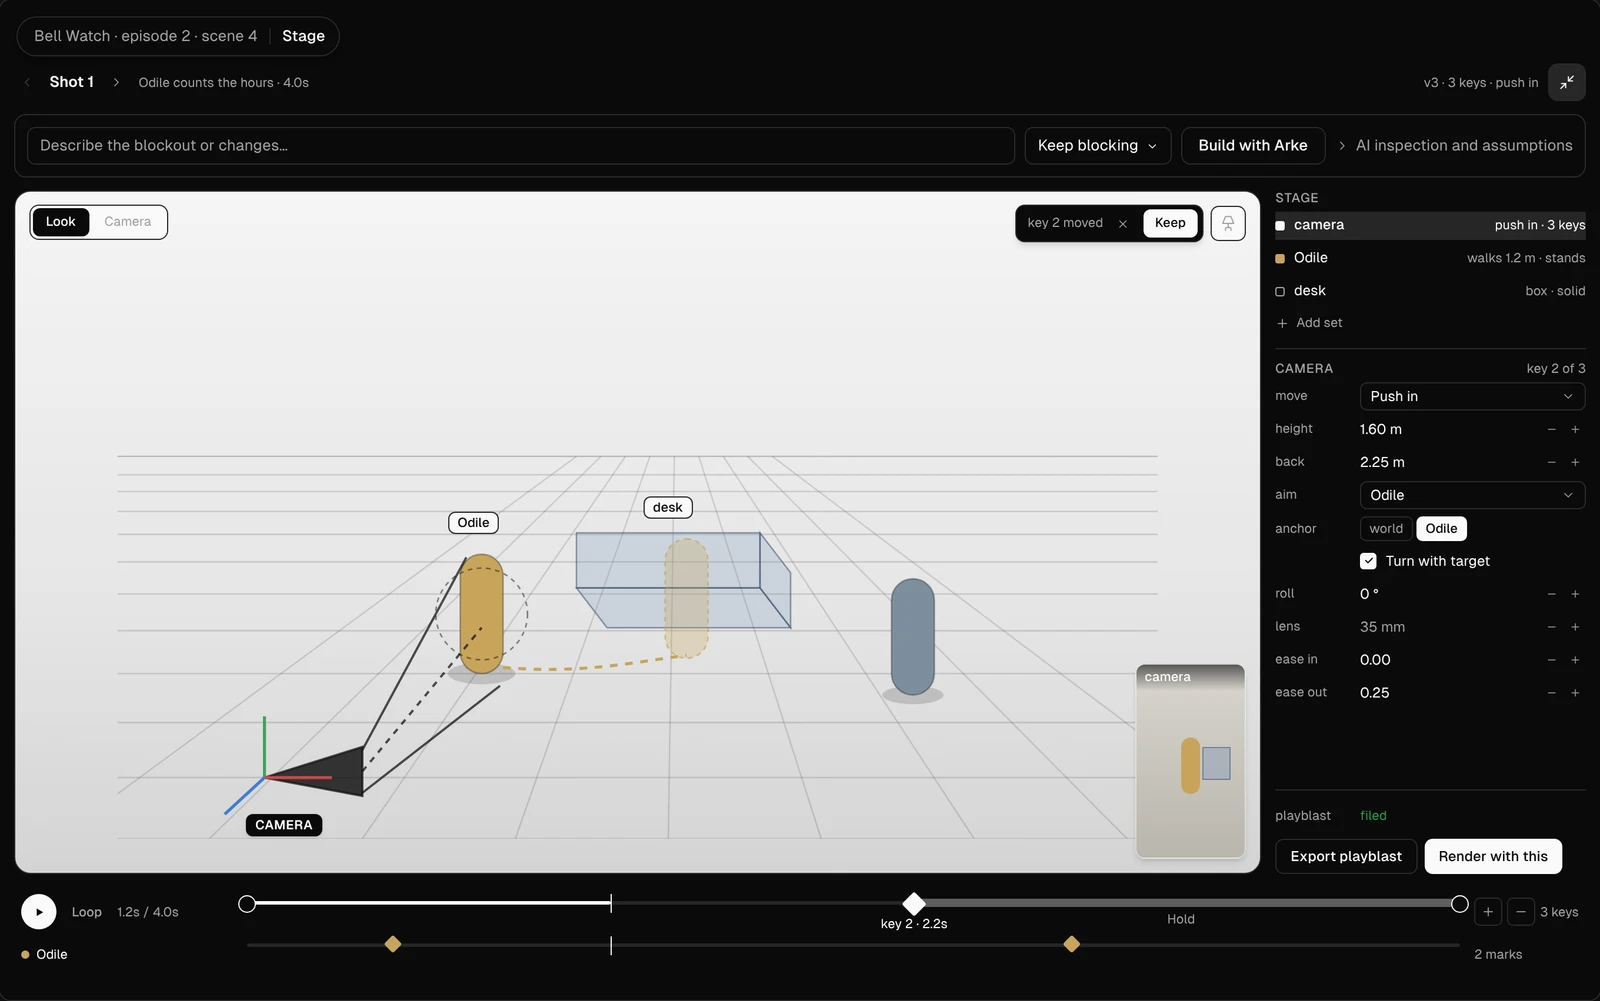
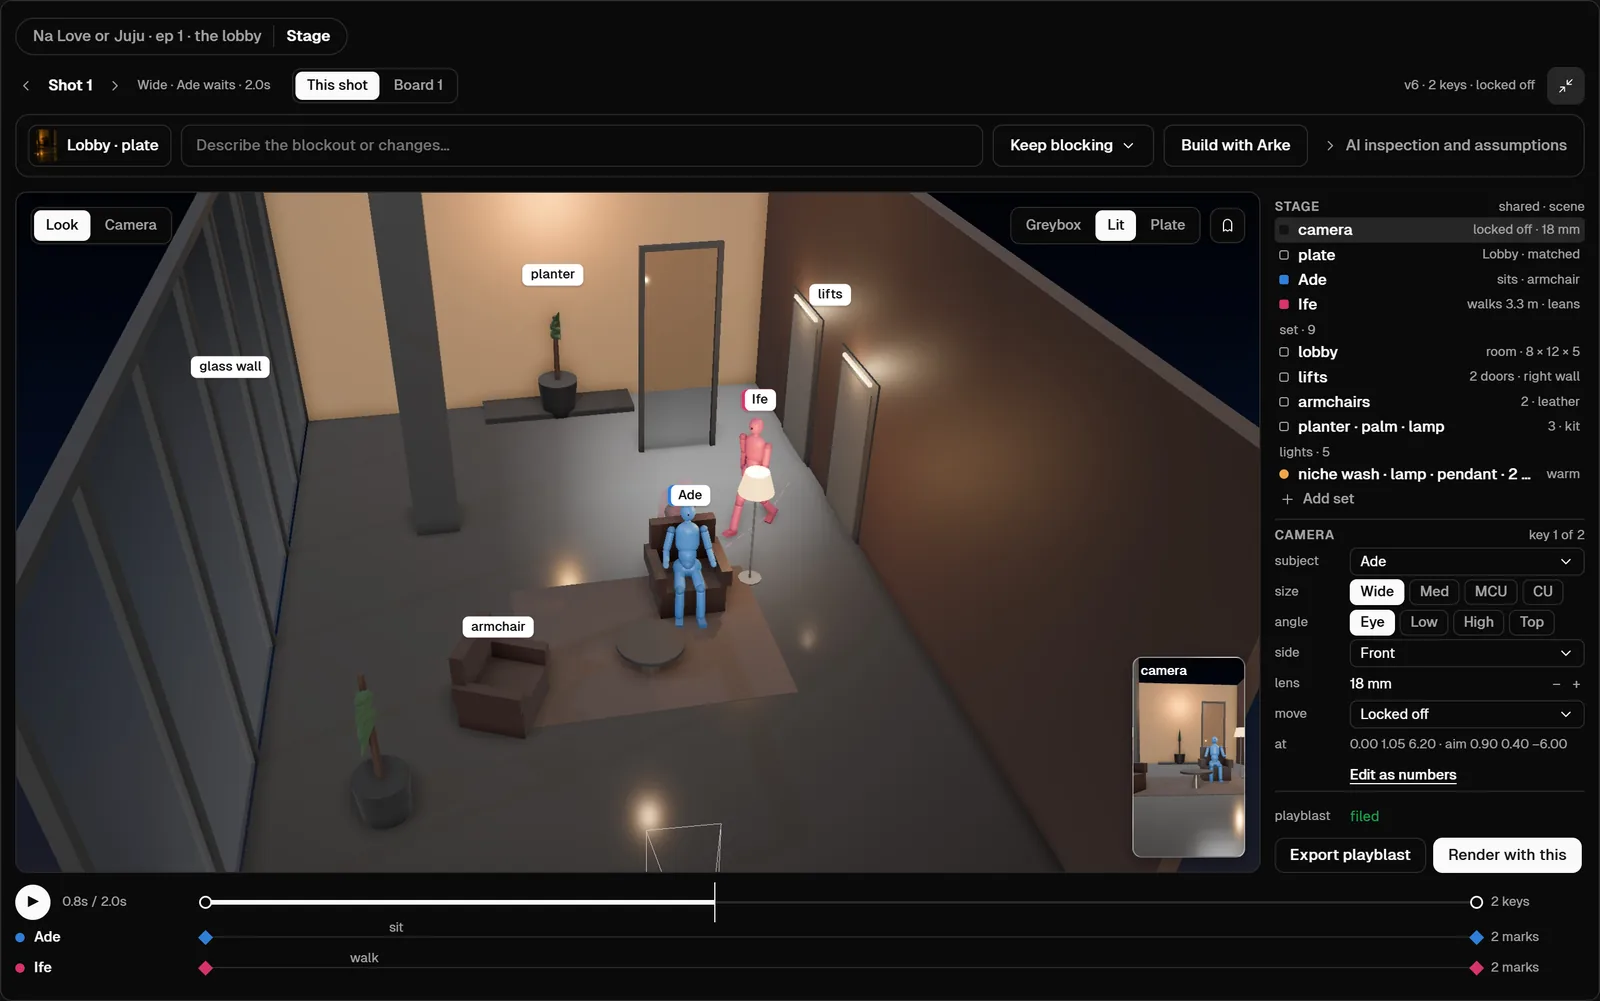
README: the Stage, built with Arke (#1826)
Adds the blockout uplift to the README: a What's new line, a new lit Stage
image in From script to screen, a Block it out with Arke section and a
Status paragraph. The six images are the Stage frames from the design
master (a, c, d, f, g and h of the Stage turn), rendered in dark at 2x and
saved as WebP like the rest: 268 KB in all.

diff --git a/README.md b/README.md
@@ -18,6 +18,9 @@ because they share it.
 
 ## What's new
 
+- **A Stage that builds the shot with you.** Arke blocks a scene in small steps you watch land:
+  a room from the kit, lights, posed figures and a camera matched to a photo of the place. It
+  then writes the video prompt as timed cuts, with the blockout attached. [See it →](#block-it-out-with-arke)
 - **A writing room that knows your world.** The chapter editor is rebuilt around the page.
   Names in the prose link to the cast, `@` and `/` reach the world and Arke from the caret, and
   Arke's edits wait in the text itself to be kept or refused. [See it →](#write-in-a-room-that-knows-your-world)
@@ -307,12 +310,13 @@ one frame out of four.
 
 <br>
 
-<img src=".github/assets/readme-stage.webp" alt="The Stage: a shot's camera and cast blocked out in 3D, a push-in key selected, the panel showing move, height, back, lens and easing, a playblast filed." width="100%">
+<img src=".github/assets/readme-stage.webp" alt="The Stage in full screen, lit: a hotel lobby at night with lifts, armchairs, a planter and warm practical lights, Ade seated in blue and Ife crossing in pink, the camera written as Wide, Eye and Front at 18 mm, locked off, and both figures' marks on the timeline below." width="100%">
 
 **The Stage blocks the shot before you spend on it.** Cast and set are placed once per
-scene; the camera is keyed per shot — height, distance, lens, easing — and previewed as a
-playblast. Describe a change in a sentence and Arke rebuilds the camera around it — the
-blocking stays put unless you ask it to revise that too — or move the keys yourself.
+scene, lit, and seen three ways: as greybox, lit, or wearing a photo of the real location.
+The camera is written in words (size, angle, side, lens and move) and worked out in code, so
+"medium, low, from the left" lands where a camera operator would put it. Every shot previews
+as a playblast. Describe a change in a sentence, or move the keys yourself.
 
 <br>
 
@@ -342,6 +346,58 @@ set, and every receipt keeps its estimate's own tilde — nothing is claimed as 
 provider actually reports what it charged.
 
 </div>
+
+### Block it out with Arke
+
+Build with Arke turns a written beat into a staged scene. It works through a set of stage tools
+rather than one long answer, so each step lands where you can see it, and it checks its own
+work before it stops.
+
+<div align="center">
+
+<img src=".github/assets/readme-stage-build.webp" alt="Build with Arke at work on shot 1: a log of finished steps (read the plate, read the sheets, an 8 by 12 by 5 metre room, an armchair, table, planter, palm and lamp from the kit, lights from the plate, Ade sitting, Ife walking 3.3 metres to lean on him, the camera, a render of shot 1 beside the plate, a 0.81 plate match) and a check still running, with the lit lobby filling in behind it." width="100%">
+
+**Every step is on the stage as it lands.** Arke reads the plate and the character sheets,
+builds the room, lights it from the plate, places and poses the cast and sets the camera.
+Then it renders the shot, compares it with the plate, and checks the 180° line, the distances
+between figures and how fast they move.
+
+</div>
+
+<table>
+<tr>
+<td width="50%" valign="top">
+<img src=".github/assets/readme-stage-plate.webp" alt="Shot 1 through the camera in the Plate look: the lobby photo projected onto the set, Ade in his armchair, and the plate's settings beside it: 540 by 960, matched to shot 1 at 18 mm with a 1.05 metre horizon, a 0.81 match, and Match camera.">
+<br><b>Build from a location plate.</b> A photo of the place becomes the set's surface and
+its reference. The plate names the shot it matches, with its lens and horizon, and goes into
+the video prompt as Image 1.
+</td>
+<td width="50%" valign="top">
+<img src=".github/assets/readme-stage-pose.webp" alt="Ife on her last mark in close-up, a jointed pink figure leaning down with her left hand on Ade's left shoulder, and the figure settings beside her: Lean on, Left hand, on Ade's left shoulder, looking at Ade.">
+<br><b>Figures that pose.</b> Jointed figures sit, lean, reach and look at each other. A hand
+rests on a named point, here Ade's left shoulder. A turn too fast to read is flagged with the
+time it needs.
+</td>
+</tr>
+<tr>
+<td width="50%" valign="top">
+<img src=".github/assets/readme-stage-board.webp" alt="Board 1 from above: four numbered cameras on the lobby floor, a 12-second track cut into Wide, Ade, Ife and Two-shot, both figures' lanes running across the cuts, the 180-degree line clear, and the cut animatic filed.">
+<br><b>One action, four cameras.</b> A board stages the action once across several shots,
+puts a camera on each and cuts them into one animatic. The line check covers every cut.
+</td>
+<td width="50%" valign="top">
+<img src=".github/assets/readme-stage-prompt.webp" alt="The Bench set to video: the plate, Ade's and Ife's pictures and the board's animatic attached as Image 1, Image 2, Image 3 and Video 1, a prompt written as timed cuts from 0 to 12 seconds, and Follow set to Camera only.">
+<br><b>A prompt the video model can follow.</b> References are numbered as they go in, the
+action is written as timed cuts, and the blockout rides along as Video 1. Follow decides
+whether the model copies only the camera or the action too.
+</td>
+</tr>
+</table>
+
+The set comes from a kit: rooms with doors, windows and surfaces, stairs, counters, booths,
+furniture, cars, streets and trees, each sized with numbers rather than modelled. Point, spot,
+area and sun lights sit under one Look for the production, which sets the time of day, the sky
+and the haze.
 
 ### Atmosphere, crossfades and particles
 
@@ -578,6 +634,10 @@ quotations and typed refusals, proposals staged with ripple computation, referen
 travel into every dispatch, real currency shown before spend with running jobs cancellable
 from the Activity panel, a shot page carrying its frame, its camera and its 3D Stage together,
 and a cut that assembles itself from accepted takes.
+
+**The Stage is built for blocking with Arke.** Location plates, a set kit, lights and a
+production Look, jointed figures that pose, camera framing written in words, boards cut into
+one animatic, and video prompts written as timed cuts with the blockout attached.
 
 **Story mode is built through to a published edition.** The chapter writing room with linked
 names, Ask Arke, Continue, versions, Compare, Focus and margin review notes; `.docx` import;
